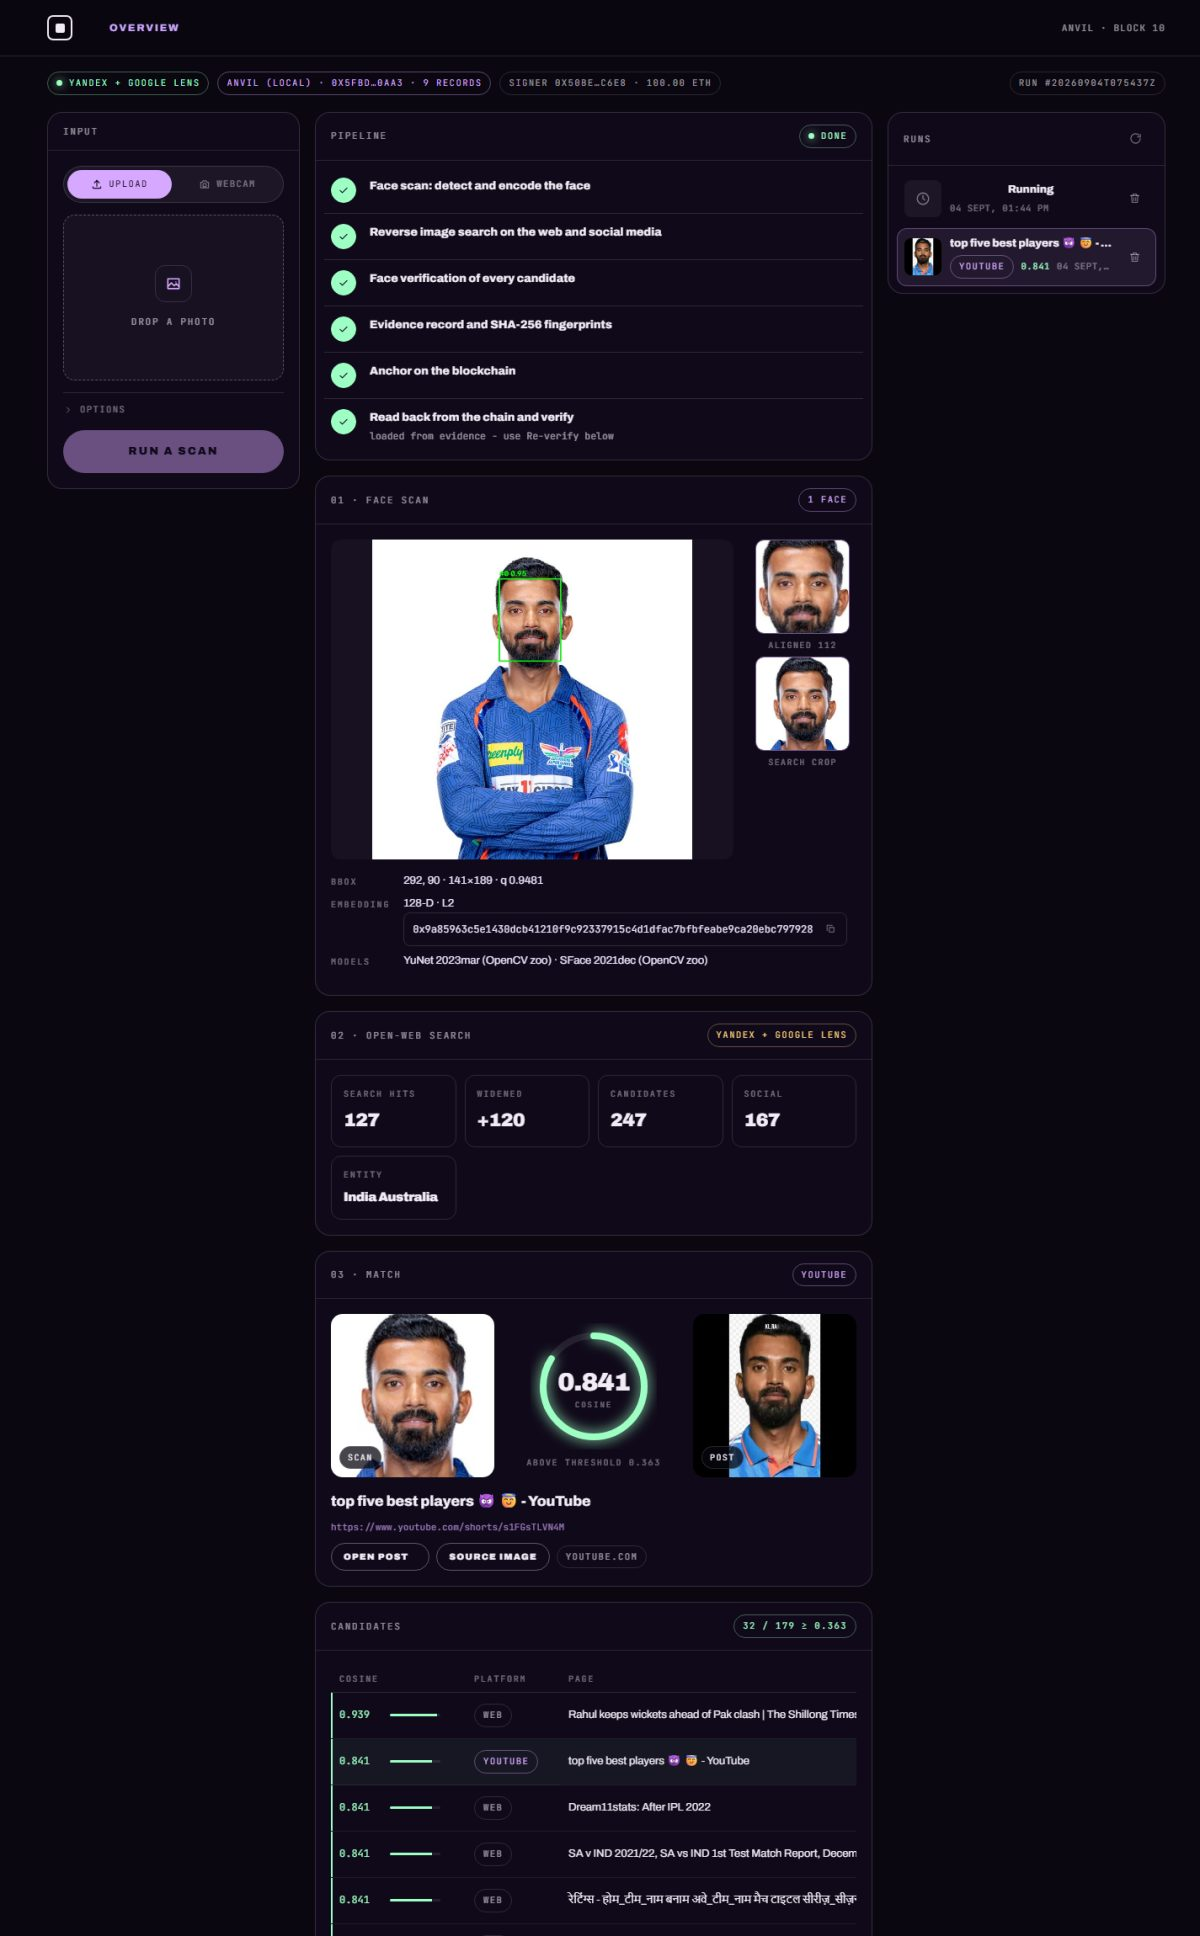
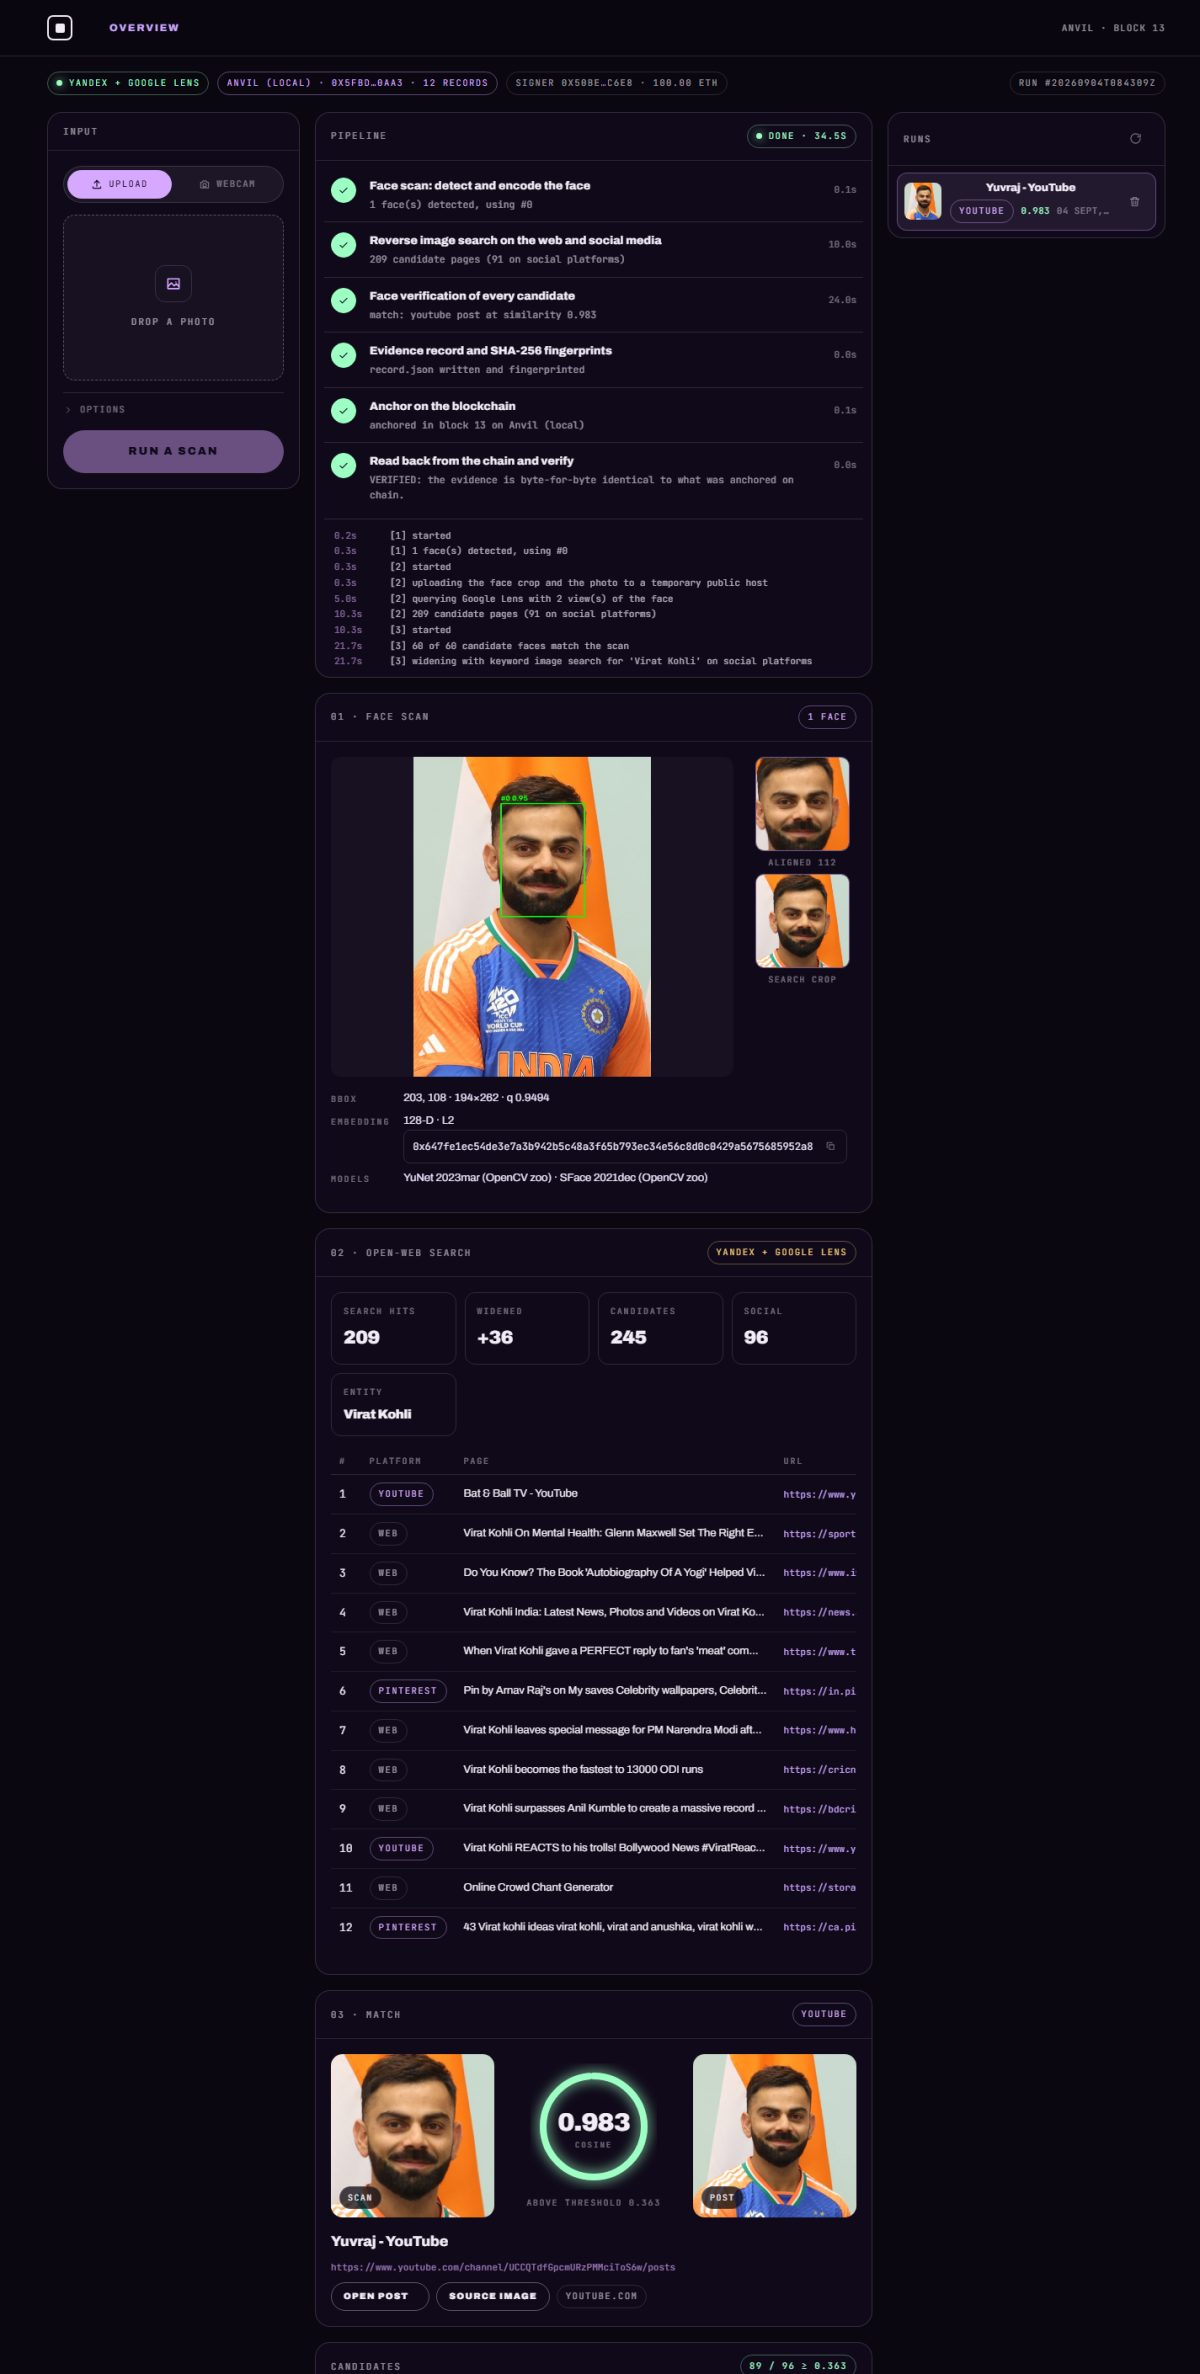
Similarity-first match selection; README rewritten with the 0.983 example run and step-by-step guide

diff --git a/facechain/search.py b/facechain/search.py
@@ -423,12 +423,13 @@ def verify_candidates(engine: FaceEngine, query_vec: np.ndarray, cands: list[Can
     return out
 
 
-# 1 = photo networks (own or fan posts), 2 = video platforms (covers), 3 = re-pin / gallery sites, web last
+# Platform tiers only add a small bonus: 1 = photo networks, 2 = video platforms, 3 = re-pin / gallery sites.
 PLATFORM_TIER = {p: 1 for p in ("instagram", "x", "facebook", "threads", "reddit", "linkedin", "snapchat",
                                 "vk", "weibo")}
 PLATFORM_TIER.update({p: 2 for p in ("tiktok", "youtube")})
 PLATFORM_TIER.update({p: 3 for p in ("pinterest", "tumblr", "flickr", "imgur", "quora", "medium")})
-STRONG_MATCH = 0.5
+TIER_BONUS = {1: 0.05, 2: 0.02, 3: 0.0}
+OWN_ACCOUNT_BONUS = 0.05
 
 
 def _letters(s: str) -> str:
@@ -444,22 +445,19 @@ def own_account(v: Verified, entity: Optional[str]) -> bool:
     return len(e) >= 5 and bool(handle) and (e in handle or handle in e)
 
 
+def match_score(v: Verified, entity: Optional[str] = None) -> float:
+    """Similarity first; a small bonus for photo networks and for the person's own account."""
+    bonus = TIER_BONUS.get(PLATFORM_TIER.get(v.candidate.platform, 0), 0.0)
+    return v.similarity + bonus + (OWN_ACCOUNT_BONUS if own_account(v, entity) else 0.0)
+
+
 def choose_match(verified: list[Verified], threshold: float, entity: Optional[str] = None) -> Optional[Verified]:
-    """Above-threshold candidates only. Prefer confident matches on photo networks, then video
-    platforms, then re-pin sites, then the open web. Within a tier the person's own account wins,
-    then the highest similarity."""
+    """Above-threshold candidates only; social-media posts before plain web pages; highest score wins."""
     passing = [v for v in verified if v.similarity >= threshold]
     if not passing:
         return None
-    key = lambda v: (own_account(v, entity), v.similarity)  # noqa: E731
-    for tier in (1, 2, 3):
-        pool = [v for v in passing if PLATFORM_TIER.get(v.candidate.platform) == tier]
-        if pool:
-            best = max(pool, key=key)
-            if best.similarity >= STRONG_MATCH:
-                return best
     social = [v for v in passing if is_social(v.candidate.platform)]
-    return max(social or passing, key=key)
+    return max(social or passing, key=lambda v: match_score(v, entity))
 
 
 # ------------------------------------------------------------- post metadata

diff --git a/README.md b/README.md
@@ -18,7 +18,14 @@
 
 <br>
 
-## What it does
+## What it is
+
+Veriface is a small web app. You give it a face (a photo or a webcam capture). It finds a real post on the
+web or social media that shows the same face, and then writes a fingerprint of that discovery to a
+blockchain. Later, anyone with the saved evidence can prove it has not been changed by checking it
+against the chain.
+
+Nothing is pre-picked. Every result comes from live searches and a real face comparison at run time.
 
 ```mermaid
 flowchart LR
@@ -31,61 +38,112 @@ flowchart LR
     G --> H([🔍 Re-verify any time])
 ```
 
-1. **Face scan** — you upload a photo or use the webcam. The face is detected and turned into a vector.
-2. **Search** — the face is looked up on the web. Every result is checked against your scan, so only pages with the *same face* count. The best social media post wins.
-3. **Blockchain** — fingerprints of the post and the scan are written to a smart contract. Later, one click re-verifies the saved evidence against the chain. A tamper test shows what happens when one byte changes.
+<br>
 
-Nothing is pre-picked: the results, the name and the post come from live searches every time.
+## How it works, step by step
+
+**1 · Face scan.** The photo goes through OpenCV's *YuNet* detector, which finds the face, and *SFace*,
+which turns it into a list of 128 numbers (an "embedding"). Two faces of the same person give similar
+numbers; the similarity is measured as a cosine score from −1 to 1. OpenCV's threshold for
+"same person" is 0.363.
+
+**2 · Reverse image search.** A tight crop of the face and the whole photo are uploaded to a temporary
+public link and sent to *Yandex* (which can match faces) and, if you add a key, *Google Lens*. Every
+page they return is a candidate.
+
+**3 · Face check.** Each candidate image is downloaded and the faces in it are compared with your scan.
+Only candidates above the threshold survive. The person's name is read from the titles of those
+matching pages (never typed in), a quick keyword image search widens the pool with more social posts,
+and those are face-checked too. The highest-scoring social media post wins; a post from the person's
+own account or a photo network gets a small bonus.
+
+**4 · Fingerprints.** Three SHA-256 digests are computed: the evidence record, the post image bytes and
+the face embedding. Everything is saved in `evidence/<run_id>/`.
+
+**5 · Blockchain.** The digests, post URL, platform and score are written to the `FaceMatchRegistry`
+smart contract. You get the contract address, transaction hash and block number.
+
+**6 · Verification.** The record is read back from the chain and compared field by field. At any later
+time, **Re-verify hash** recomputes every digest from the files on disk and checks them against the
+chain. **Tamper test** changes one field in a copy of the evidence and shows the check fail.
+
+<br>
+
+## Example run
+
+Input: a photo of Virat Kohli. Local Anvil chain. No API keys except the optional Google Lens one.
+
+| | |
+|---|---|
+| Search hits | 209 pages from Yandex + Google Lens, widened by 36 |
+| Identified as | Virat Kohli (read from matching pages) |
+| Faces checked | 96 candidate images, 89 matched |
+| Best post | YouTube post, cosine similarity **0.983** |
+| On chain | Anvil, block 13, transaction `0x4055…56d5` |
+| Verification | all 9 checks OK; tamper test detected |
+| Time | 34.5 seconds |
+
+<div align="center">
+<img src="docs/console.jpg" alt="Console: pipeline, face scan, search results and the 0.983 match" width="92%">
+<br><br>
+<img src="docs/verify.jpg" alt="Seal card: verified against the chain, tamper test detected" width="60%">
+</div>
 
 <br>
 
 ## Run it
 
+You need Python 3.10 or newer, Node.js 18 or newer, and git.
+
 ```bash
 git clone https://github.com/sachin-2004jlr/HHGOA3.git
 cd HHGOA3
-python -m venv .venv && .venv\Scripts\activate       # Linux/macOS: source .venv/bin/activate
+
+python -m venv .venv
+.venv\Scripts\activate                 # Windows      (Linux/macOS: source .venv/bin/activate)
 pip install -r requirements.txt
-npm run setup
+
+npm run setup                          # installs the launcher and the web app
+python scripts/get_anvil.py            # downloads the local blockchain node (one time, ~100 MB)
+
 npm run dev
 ```
 
-`npm run dev` starts the local blockchain node, the API and the web app together and opens the browser.
-Press **Run a scan** in the header, drop a photo (or use the webcam), and press **Run a scan** again.
+`npm run dev` starts three things together, on free ports, and opens the browser:
+the Anvil blockchain node, the Python API and the web app.
 
-No API keys are required. Optional extras go in `.env` (copy `.env.example`):
-
-| Setting | What it adds |
-|---|---|
-| `SERPER_API_KEY` or `SERPAPI_KEY` | Google Lens next to Yandex |
-| `RPC_URL` + `PRIVATE_KEY` | A public chain such as Ethereum Sepolia instead of local Anvil |
+In the browser: press **Run a scan** in the header, drop a photo or open the webcam, and press
+**Run a scan**. The six steps run live; the cards fill in as each finishes.
 
 <br>
 
-<div align="center">
-<img src="docs/console.jpg" alt="Console: pipeline, face scan and matching post" width="92%">
-</div>
+## What you see in the console
 
-<br>
-
-## What you see
-
-| Card | Contents |
+| Card | What it shows |
 |---|---|
-| **Input** | Photo upload or webcam capture, plus options: match threshold, candidates to check, keyword widening, chain |
-| **Pipeline** | The six steps running live, with timings, a progress bar and an event log |
-| **01 · Face scan** | The detected face, the aligned crop, the search crop and the hash of the face vector |
-| **02 · Open-web search** | Which engines ran, how many results, who the face was identified as, the candidate pages |
-| **03 · Match** | Your scan beside the found post with the similarity meter and the link |
-| **Candidates** | Every candidate image that was face-checked, with its score |
+| **Input** | Photo upload or webcam capture. *Options*: match threshold, how many candidates to check, keyword widening on or off, which chain |
+| **Pipeline** | The six steps with timings, a progress bar and an event log |
+| **01 · Face scan** | The detected face, the aligned crop, the search crop and the hash of the embedding |
+| **02 · Open-web search** | Engines used, number of hits, who the face was identified as, the candidate pages |
+| **03 · Match** | Your scan beside the found post with the similarity meter and a link to the post |
+| **Candidates** | Every image that was face-checked, with its score |
 | **04 · Digest** | The three SHA-256 fingerprints |
 | **05 · On-chain record** | Contract, transaction, block, time and gas |
-| **06 · Seal** | **Re-verify hash** recomputes everything from the saved files and compares it with the chain; **Tamper test** proves a changed byte is caught |
-| **Runs** | Every past run, reloadable at any time |
+| **06 · Seal** | **Re-verify hash** and **Tamper test**, with a field-by-field comparison |
+| **Runs** | Every past run, reloadable; delete with the bin icon |
 
-<div align="center">
-<img src="docs/verify.jpg" alt="Blockchain record, re-verification and tamper test" width="60%">
-</div>
+<br>
+
+## Settings (all optional)
+
+Copy `.env.example` to `.env` and fill in what you want.
+
+| Setting | What it does |
+|---|---|
+| `SERPER_API_KEY` or `SERPAPI_KEY` | Adds Google Lens next to Yandex ([serper.dev](https://serper.dev) has free credits) |
+| `RPC_URL` and `PRIVATE_KEY` | Use a public chain, for example Ethereum Sepolia, instead of local Anvil |
+| `FACE_MATCH_THRESHOLD` | Same-person threshold, default 0.363 |
+| `MAX_CANDIDATES` | How many candidate images to face-check, default 60 |
 
 <br>
 
@@ -93,28 +151,41 @@ No API keys are required. Optional extras go in `.env` (copy `.env.example`):
 
 The same Solidity contract runs everywhere; only the endpoint changes.
 
-| Backend | How | When |
+| Backend | How | When to use |
 |---|---|---|
-| **Anvil** (default) | A real local Ethereum node started by `npm run dev`; state kept in `.anvil/` | Offline demo, nothing to fund |
-| **Ethereum Sepolia** | Set `RPC_URL` and a funded `PRIVATE_KEY`, run `python -m facechain deploy` once | Public records with Etherscan links |
+| **Anvil** (default) | A real local Ethereum node started by `npm run dev`; its state is kept in `.anvil/` so records survive restarts | Offline demo, nothing to fund |
+| **Ethereum Sepolia** | Create a wallet with `python scripts/new_wallet.py`, fund it from a faucet, set `RPC_URL`, run `python -m facechain deploy` once | Public records with Etherscan links |
 | **Simulated chain** | Proof-of-work blocks in `simchain.json` | No node at all |
 
 ```solidity
-struct Record { bytes32 recordHash; bytes32 imageHash; bytes32 faceHash;
-                string postUrl; string platform; uint16 similarityBps;
-                uint64 timestamp; address submitter; }
+struct Record {
+    bytes32 recordHash;     // sha256 of the evidence record
+    bytes32 imageHash;      // sha256 of the post image
+    bytes32 faceHash;       // sha256 of the face embedding
+    string  postUrl;
+    string  platform;
+    uint16  similarityBps;  // similarity × 10000
+    uint64  timestamp;
+    address submitter;
+}
 function anchor(bytes32, bytes32, bytes32, string, string, uint16) external;
 function getRecord(bytes32 recordHash) external view returns (Record memory);
 ```
+
+The chain stores only hashes. It proves the saved evidence is exactly what was anchored; the photo and
+the embedding never leave your machine.
 
 <br>
 
 ## From the terminal
 
+The same pipeline without the web app:
+
 ```bash
 python -m facechain run --image photo.jpg                  # or --webcam
 python -m facechain verify --evidence evidence/<run_id>
 python -m facechain tamper-demo --evidence evidence/<run_id>
+python -m facechain chain-info
 ```
 
 <br>
@@ -122,21 +193,40 @@ python -m facechain tamper-demo --evidence evidence/<run_id>
 ## Project layout
 
 ```
-web/            React front end (landing page + console)
-server/app.py   FastAPI back end
-facechain/      pipeline · face · search · evidence · verify · chain/
-contracts/      FaceMatchRegistry.sol and its compiled artifact
-scripts/        one-command launcher, Anvil download, wallet helper
-evidence/       one folder per run (not committed)
+web/              React front end (landing page + console)
+server/app.py     FastAPI back end: runs, evidence files, verify, tamper
+facechain/
+  pipeline.py     the six steps, with progress events
+  face.py         YuNet detection, SFace embedding, webcam capture
+  search.py       Yandex + Google Lens, face-checked ranking, keyword widening
+  evidence.py     evidence folder and SHA-256 digests
+  verify.py       re-verification and the tamper copy
+  chain/          web3.py client for any EVM chain, plus the simulated chain
+contracts/        FaceMatchRegistry.sol and its compiled artifact
+scripts/          one-command launcher, Anvil download, wallet helper
+tests/            unit tests (python -m unittest discover -s tests)
+evidence/         one folder per run (not committed)
 ```
+
+<br>
+
+## If something goes wrong
+
+| Symptom | What to do |
+|---|---|
+| "No matching post" | The face may not be on the public web. Try a clearer, front-facing photo, or lower the threshold in *Options* |
+| Search step fails with a Yandex captcha | Wait a minute and run again; Yandex briefly rate-limits |
+| Webcam does not start | Allow camera access in the browser; it works on `localhost` without HTTPS |
+| "Cannot reach RPC" | Anvil is not running; use `npm run dev`, or choose *Simulated* chain in *Options* |
+| Ports busy | The launcher picks the next free ports and prints the URL |
 
 <br>
 
 ## Good to know
 
-- Only people who exist on the public web can be found; a private face returns "no match".
-- Yandex is read from its public results page and may rate-limit briefly. Google Lens does not identify people by design, so it only helps when the exact photo is already online.
-- The chain stores hashes, not content: it proves the saved evidence is unchanged, not that the post still exists.
+- Only people who exist on the public web can be found; private faces return "no match".
+- Google Lens does not identify people by design, so it helps only when the exact photo is already online. Yandex does match faces.
+- A score just above 0.363 can be a false positive for a private person; the higher the score, the safer the match.
 - Face search can be misused. Do not run it on people who have not consented.
 
 <br>
